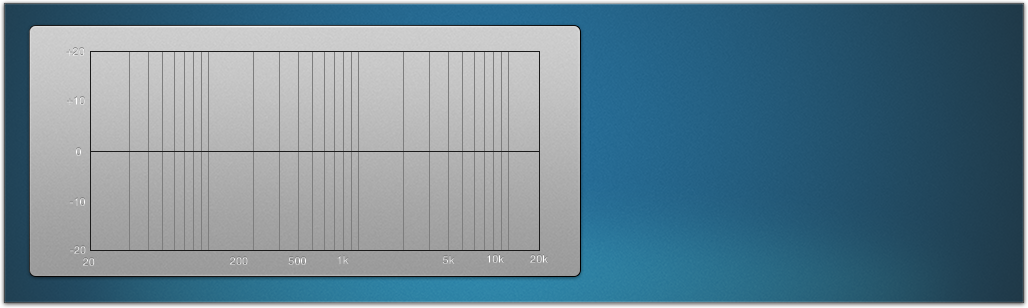
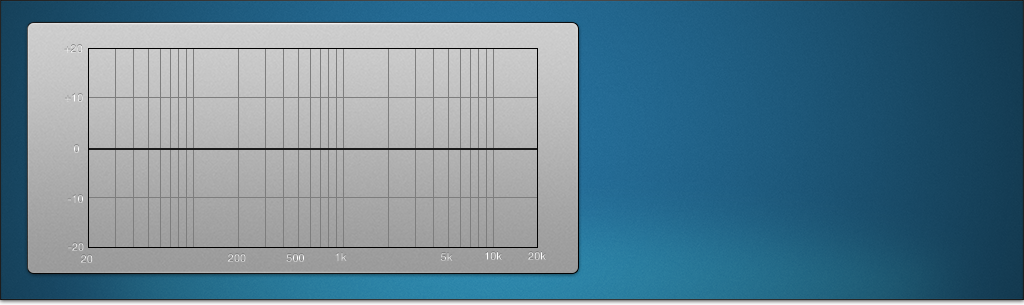
fix knob images. new detailed eq image. sort knobs based on x position.

Changed region(s): [[0.0625, 0.1475, 0.5312, 0.8557], [0.0, 0.0, 1.0, 1.0]]

diff --git a/ReaperLive/src/EqViewController.m b/ReaperLive/src/EqViewController.m
@@ -89,10 +89,10 @@
     
     for (MHRotaryKnob *gainKnob in self.gainKnobs)
     {
-        gainKnob.backgroundImage = [UIImage imageNamed:@"Knob-Rim.png"];
-        [gainKnob setKnobImage:[UIImage imageNamed:@"Knob-Base.png"] forState:UIControlStateNormal];
-        [gainKnob setKnobImage:[UIImage imageNamed:@"Knob-Base.png"] forState:UIControlStateHighlighted];
-        [gainKnob setKnobImage:[UIImage imageNamed:@"Knob-Base.png"] forState:UIControlStateDisabled];
+        gainKnob.backgroundImage = [UIImage imageNamed:@"Knob.png"];
+        [gainKnob setKnobImage:[UIImage imageNamed:@"Knob-Selector.png"] forState:UIControlStateNormal];
+        [gainKnob setKnobImage:[UIImage imageNamed:@"Knob-Selector.png"] forState:UIControlStateHighlighted];
+        [gainKnob setKnobImage:[UIImage imageNamed:@"Knob-Selector.png"] forState:UIControlStateDisabled];
         gainKnob.interactionStyle = MHRotaryKnobInteractionStyleSliderVertical;
         gainKnob.knobImageCenter = CGPointMake(25.0f, 25.0f);
         
@@ -101,10 +101,10 @@
     
     for (MHRotaryKnob *freqKnob in self.freqKnobs)
     {
-        freqKnob.backgroundImage = [UIImage imageNamed:@"Knob-Rim.png"];
-        [freqKnob setKnobImage:[UIImage imageNamed:@"Knob-Base.png"] forState:UIControlStateNormal];
-        [freqKnob setKnobImage:[UIImage imageNamed:@"Knob-Base.png"] forState:UIControlStateHighlighted];
-        [freqKnob setKnobImage:[UIImage imageNamed:@"Knob-Base.png"] forState:UIControlStateDisabled];
+        freqKnob.backgroundImage = [UIImage imageNamed:@"Knob.png"];
+        [freqKnob setKnobImage:[UIImage imageNamed:@"Knob-Selector.png"] forState:UIControlStateNormal];
+        [freqKnob setKnobImage:[UIImage imageNamed:@"Knob-Selector.png"] forState:UIControlStateHighlighted];
+        [freqKnob setKnobImage:[UIImage imageNamed:@"Knob-Selector.png"] forState:UIControlStateDisabled];
         freqKnob.interactionStyle = MHRotaryKnobInteractionStyleSliderVertical;
         freqKnob.knobImageCenter = CGPointMake(25.0f, 25.0f);
         
@@ -114,10 +114,10 @@
     
     for (MHRotaryKnob *qKnob in self.qKnobs)
     {
-        qKnob.backgroundImage = [UIImage imageNamed:@"Knob-Rim.png"];
-        [qKnob setKnobImage:[UIImage imageNamed:@"Knob-Base.png"] forState:UIControlStateNormal];
-        [qKnob setKnobImage:[UIImage imageNamed:@"Knob-Base.png"] forState:UIControlStateHighlighted];
-        [qKnob setKnobImage:[UIImage imageNamed:@"Knob-Base.png"] forState:UIControlStateDisabled];
+        qKnob.backgroundImage = [UIImage imageNamed:@"Knob.png"];
+        [qKnob setKnobImage:[UIImage imageNamed:@"Knob-Selector.png"] forState:UIControlStateNormal];
+        [qKnob setKnobImage:[UIImage imageNamed:@"Knob-Selector.png"] forState:UIControlStateHighlighted];
+        [qKnob setKnobImage:[UIImage imageNamed:@"Knob-Selector.png"] forState:UIControlStateDisabled];
         qKnob.interactionStyle = MHRotaryKnobInteractionStyleSliderVertical;
         qKnob.knobImageCenter = CGPointMake(25.0f, 25.0f);
         
@@ -163,6 +163,34 @@
         qKnob.value = 0.707;
         [self qKnobDidChange:qKnob];
     }
+    
+    
+    // Order the knobs based on their x position
+    self.gainKnobs = [self.gainKnobs sortedArrayUsingComparator:
+                      ^NSComparisonResult(id gainKnob1, id gainKnob2) 
+                      {
+                          if ([gainKnob1 frame].origin.x < [gainKnob2 frame].origin.x) return NSOrderedAscending;
+                          else if ([gainKnob1 frame].origin.x > [gainKnob2 frame].origin.x) return NSOrderedDescending;
+                          else return NSOrderedSame;
+                      }];
+    
+    self.freqKnobs = [self.freqKnobs sortedArrayUsingComparator:
+                      ^NSComparisonResult(id freqKnob1, id freqKnob2) 
+                      {
+                          if ([freqKnob1 frame].origin.x < [freqKnob2 frame].origin.x) return NSOrderedAscending;
+                          else if ([freqKnob1 frame].origin.x > [freqKnob2 frame].origin.x) return NSOrderedDescending;
+                          else return NSOrderedSame;
+                      }];
+    
+    self.qKnobs = [self.qKnobs sortedArrayUsingComparator:
+                      ^NSComparisonResult(id qKnob1, id qKnob2) 
+                      {
+                          if ([qKnob1 frame].origin.x < [qKnob2 frame].origin.x) return NSOrderedAscending;
+                          else if ([qKnob1 frame].origin.x > [qKnob2 frame].origin.x) return NSOrderedDescending;
+                          else return NSOrderedSame;
+                      }];
+    
+    
 }
 
 - (void)viewDidUnload
@@ -179,6 +207,11 @@
 - (void)gainKnobDidChange:(MHRotaryKnob *)sender
 {
     int idx = [gainKnobs indexOfObject:sender];
+    
+#if 1
+    NSLog(@"idx = %d",idx);
+#endif
+    
     UILabel *gainLabel = [gainLabels objectAtIndex:idx];
     MHRotaryKnob *gainKnob = [gainKnobs objectAtIndex:idx];
     

diff --git a/ReaperLive/src/Contants.h b/ReaperLive/src/Contants.h
@@ -1,3 +1,3 @@
-#define CHANNELS_WIDTH 1024
+#define CHANNELS_WIDTH 1030 // FIXME: Why does this need to be more than 1024 to work?
 #define CHANNELS_HEIGHT 768
 #define DETAILED_CHANNEL_VIEW_HEIGHT 300
